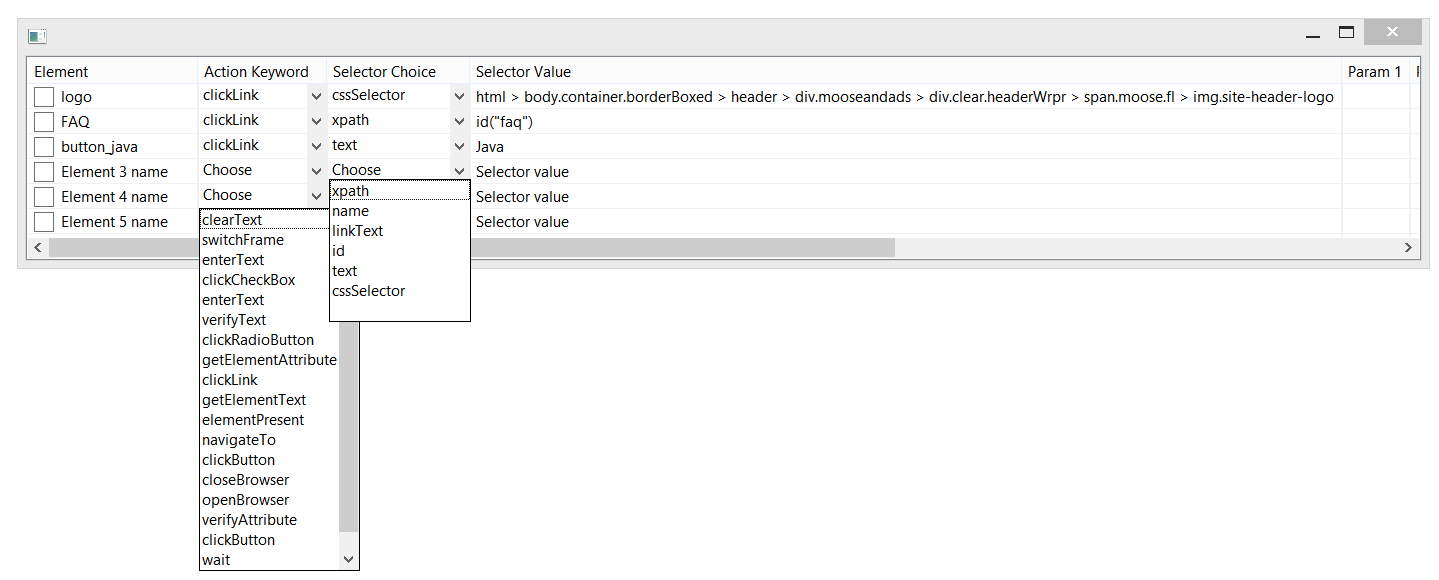
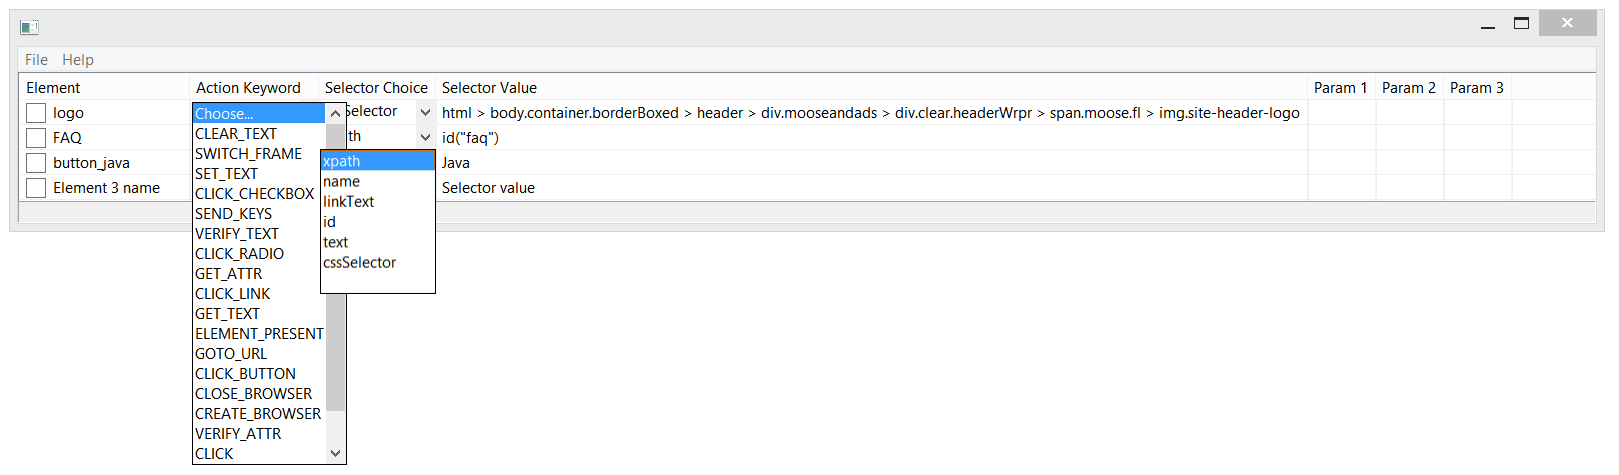
interediate revision - added addModifyListeners for combos

Changed region(s): [[0.0, 0.0, 1.0, 1.0]]

diff --git a/src/main/java/org/swet/TableEditorEx.java b/src/main/java/org/swet/TableEditorEx.java
@@ -32,6 +32,8 @@ import org.openqa.selenium.By;
 import org.eclipse.swt.SWT;
 import org.eclipse.swt.custom.CCombo;
 import org.eclipse.swt.custom.TableEditor;
+import org.eclipse.swt.events.ModifyEvent;
+import org.eclipse.swt.events.ModifyListener;
 import org.eclipse.swt.events.SelectionEvent;
 import org.eclipse.swt.events.SelectionListener;
 import org.eclipse.swt.graphics.Point;
@@ -396,49 +398,73 @@ public class TableEditorEx {
 			// Append row into the TableEditor
 			TableItem item = items[cnt];
 			elementData = testData.get(stepId);
-			/*
-			System.out.println(String.format("Loading step %d(%s) %s %s %s",
-					Integer.parseInt(elementData.get("ElementStepNumber")),
-					elementData.get("CommandId"), elementData.get("ElementCodeName"),
-					elementData.get("ElementSelectedBy"),
-					elementData.get(elementData.get("ElementSelectedBy"))));
-			*/
+			String selectorChoice = elementSelectedByToselectorChoiceTable
+					.get(elementData.get("ElementSelectedBy"));
+			String selectorValue = elementData
+					.get(elementData.get("ElementSelectedBy"));
 			item.setText(new String[] { elementData.get("ElementCodeName"),
-					String.format("Action %d", cnt), elementData.get("ElementSelectedBy"),
-					elementData.get(elementData.get("ElementSelectedBy")) });
-			// some columns require combo selects
-
+					String.format("Action %d", cnt), selectorChoice, selectorValue });
+			// some columns converted to combo selects
 			TableEditor keywordChoiceEditor = new TableEditor(table);
 			CCombo keywordChoiceCombo = new CCombo(table, SWT.NONE);
-			for (String keyword : methodTable.values()) {
+			keywordChoiceCombo.add("Choose...");
+			for (String keyword : methodTable.keySet()) {
 				keywordChoiceCombo.add(keyword);
-				// System.err.println(keyword);
 			}
-			int keywordChoiceCombo_select = new ArrayList<String>(
-					methodTable.values()).indexOf("clickLink");
-			// System.err.println("Selecting: " + keywordChoiceCombo_select);
-			keywordChoiceCombo.select(keywordChoiceCombo_select);
+			keywordChoiceCombo.select(0);
 			keywordChoiceEditor.grabHorizontal = true;
-			keywordChoiceEditor.setEditor(keywordChoiceCombo, item, 1);
+			int keywordChoiceColumn = 1;
+			keywordChoiceCombo.setData("column", keywordChoiceColumn);
+			keywordChoiceCombo.setData("item", (TableItem) item);
+			keywordChoiceEditor.setEditor(keywordChoiceCombo, item,
+					keywordChoiceColumn);
+			// TODO: refactor
+			keywordChoiceCombo.addModifyListener(new ModifyListener() {
+				@Override
+				public void modifyText(ModifyEvent event) {
+					CCombo combo = (CCombo) event.widget;
+					int column = (int) combo.getData("column");
+					String oldValue = ((TableItem) combo.getData("item")).getText(column);
+					String newValue = combo.getText();
+					System.err
+							.println(String.format("Updating %s = %s", oldValue, newValue));
+					if (methodTable.containsKey(newValue)) {
+						((TableItem) combo.getData("item")).setText(column, newValue);
+					}
+				}
+			});
 
 			TableEditor selectorChoiceEditor = new TableEditor(table);
 			CCombo selectorChoiceCombo = new CCombo(table, SWT.NONE);
 			for (String locator : selectorChoiceTable.keySet()) {
 				selectorChoiceCombo.add(locator);
-				// System.err.println(locator);
 			}
-			int selectorChoiceCombo_select = new ArrayList<String>(
-					selectorChoiceTable.keySet())
-							.indexOf(elementSelectedByToselectorChoiceTable
-									.get(elementData.get("ElementSelectedBy")));
-			/*
-			System.err.println(String.format("Selecting: %d for %s",
-					selectorChoiceCombo_select, elementSelectedByToselectorChoiceTable
-							.get(elementData.get("ElementSelectedBy"))));
-							*/
-			selectorChoiceCombo.select(selectorChoiceCombo_select);
+			int currentSelector = new ArrayList<String>(selectorChoiceTable.keySet())
+					.indexOf(elementSelectedByToselectorChoiceTable
+							.get(elementData.get("ElementSelectedBy")));
+
+			selectorChoiceCombo.select(currentSelector);
 			selectorChoiceEditor.grabHorizontal = true;
-			selectorChoiceEditor.setEditor(selectorChoiceCombo, item, 2);
+			int selectorChoiceColumn = 2;
+			selectorChoiceCombo.setData("item", (TableItem) item);
+			selectorChoiceCombo.setData("column", selectorChoiceColumn);
+			selectorChoiceEditor.setEditor(selectorChoiceCombo, item,
+					selectorChoiceColumn);
+
+			selectorChoiceCombo.addModifyListener(new ModifyListener() {
+				@Override
+				public void modifyText(ModifyEvent event) {
+					CCombo combo = (CCombo) event.widget;
+					int column = (int) combo.getData("column");
+					String oldValue = ((TableItem) combo.getData("item")).getText(column);
+					String newValue = combo.getText();
+					System.err
+							.println(String.format("Updating %s = %s", oldValue, newValue));
+					if (selectorChoiceTable.containsKey(newValue)) {
+						((TableItem) combo.getData("item")).setText(column, newValue);
+					}
+				}
+			});
 			cnt = cnt + 1;
 		}
 		return;

diff --git a/src/main/java/org/swet/SimpleToolBarEx.java b/src/main/java/org/swet/SimpleToolBarEx.java
@@ -90,8 +90,8 @@ public class SimpleToolBarEx {
 		configData.put("Template", "Core Selenium Java (embedded)");
 	}
 	private static final String defaultConfig = String.format(
-			"{ \"Browser\": \"%s\", \"Template\": \"Core Selenium Java (embedded)\", }",
-			configData.get("Browser"));
+			"{ \"Browser\": \"%s\", \"Template\": \"%s\", }",
+			configData.get("Browser"), configData.get("Template"));
 
 	private static final int shellWidth = 768;
 	private static final int shellHeight = 324;
